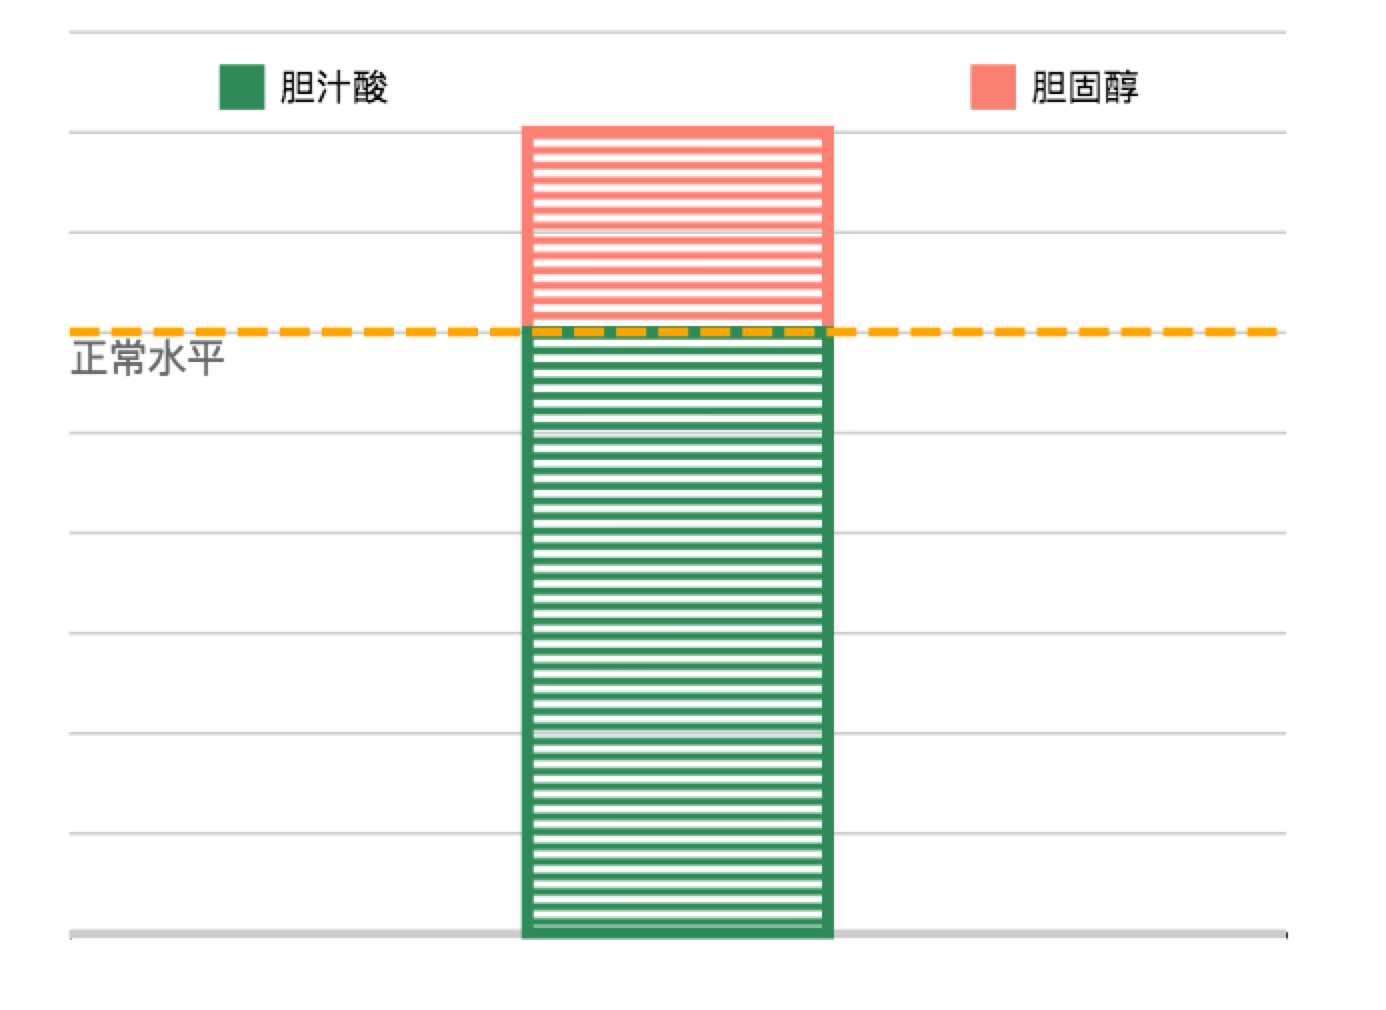
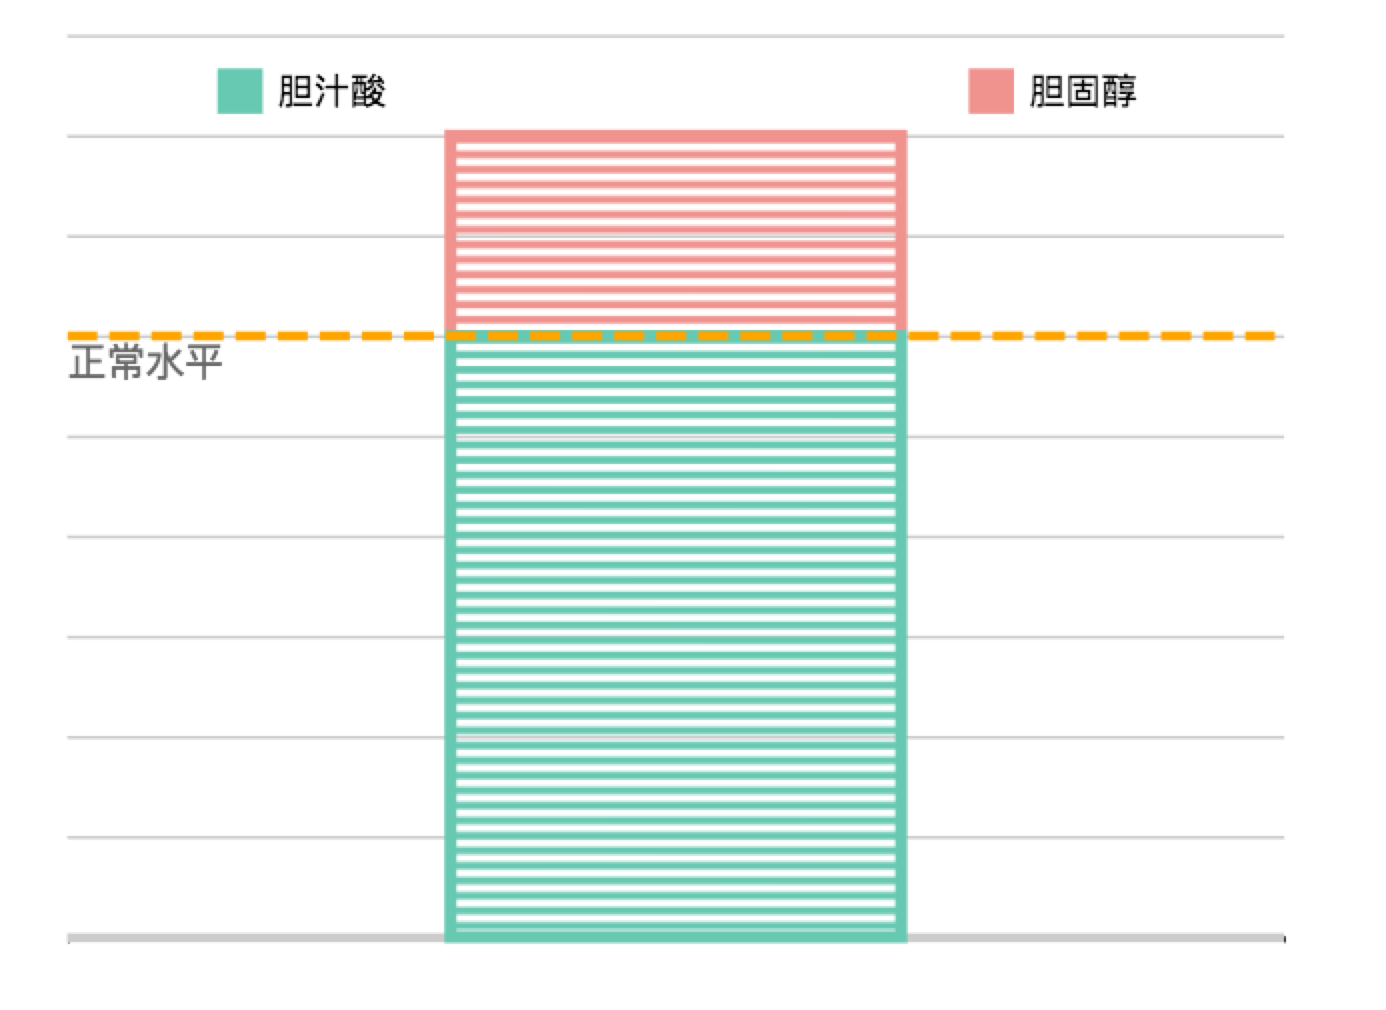
total amount-bile

Changed region(s): [[0.031, 0.0307, 0.9307, 0.9515]]

diff --git a/lib/amount-bile.js b/lib/amount-bile.js
@@ -32,8 +32,8 @@ export function amountBile(parent, config) {
 
     // var formatNumber = d3.format('.2%');
 
-    hPattern(svg, 50, 500, 'seagreen');
-    hPattern(svg, 50, 500, 'salmon')
+    hPattern(svg, 50, 500, '#66c9b2');
+    hPattern(svg, 50, 500, '#f0938f')
 
 
     // define basic location Axis
@@ -88,14 +88,14 @@ export function amountBile(parent, config) {
     };
 
     // console.log(y(input.bileAcid))
-    let barWidth = 200;
+    let barWidth = 300;
 
 
     g.append('rect')
         .attr('class', 'bar')
-        .attr('fill', 'url(#hpattern-salmon)')
+        .attr('fill', 'url(#hpattern-#f0938f)')
         .attr('stroke-width', 8)
-        .attr('stroke', 'salmon')
+        .attr('stroke', '#f0938f')
         .attr('width', barWidth)
         .attr('height', y(input.cholesterol))
         .attr('transform', function() {
@@ -104,9 +104,9 @@ export function amountBile(parent, config) {
 
     g.append('rect')
         .attr('class', 'bar')
-        .attr('fill', 'url(#hpattern-seagreen)')
+        .attr('fill', 'url(#hpattern-#66c9b2)')
         .attr('stroke-width', 8)
-        .attr('stroke', 'seagreen')
+        .attr('stroke', '#66c9b2')
         .attr('width', barWidth)
         .attr('height', y(input.bileAcid))
         .attr('transform', function() {
@@ -170,13 +170,13 @@ export function amountBile(parent, config) {
     let legendConfig1 = {
         x: 100,
         y: 22,
-        color: 'seagreen',
+        color: '#66c9b2',
         text: '胆汁酸'
     }
     let legendConfig2 = {
         x: 600,
         y: 22,
-        color: 'salmon',
+        color: '#f0938f',
         text: '胆固醇'
     }
 

diff --git a/lib/utils/detect.js b/lib/utils/detect.js
@@ -44,7 +44,7 @@ export function hPattern(svg, percent = 20, height = 500, color = 'steelblue') {
             return d * height
         })
         .attr('x', 0)
-        .attr('width', 200)
+        .attr('width', 800)
         .attr('height', 5)
         .attr('fill', color);
 
